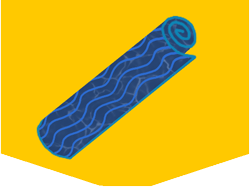
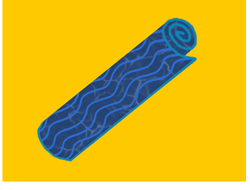
More updates, including redoing Water Carpet completely

Changed region(s): [[0.14, 0.0789, 0.812, 0.8684], [0.0, 0.0, 1.0, 1.0]]

diff --git a/src/main/java/com/ascript/KappaMod/actions/BubbleFromHandAction.java b/src/main/java/com/ascript/KappaMod/actions/BubbleFromHandAction.java
@@ -11,13 +11,14 @@ import com.megacrit.cardcrawl.core.Settings;
 import com.megacrit.cardcrawl.dungeons.AbstractDungeon;
 import com.megacrit.cardcrawl.localization.UIStrings;
 import java.util.Iterator;
+import java.util.function.Function;
 
 public class BubbleFromHandAction extends AbstractGameAction {
-    private static final UIStrings uiStrings = CardCrawlGame.languagePack.getUIString("BubbleFromHandAction");
+    private static final UIStrings uiStrings = CardCrawlGame.languagePack.getUIString("BubbleSelectionAction");
     public static final String[] TEXT = uiStrings.TEXT;
     private AbstractPlayer p;
     private boolean isRandom;
-    public static int numDiscarded;
+    private Function<AbstractCard, AbstractGameAction> followUpAction;
     private static final float DURATION = Settings.ACTION_DUR_XFAST;
 
     public BubbleFromHandAction(AbstractCreature target, AbstractCreature source, int amount, boolean isRandom) {
@@ -26,6 +27,15 @@ public class BubbleFromHandAction extends AbstractGameAction {
         this.setValues(target, source, amount);
         this.actionType = ActionType.DISCARD;
         this.duration = DURATION;
+    }
+
+    public BubbleFromHandAction(AbstractPlayer player, int amount, boolean random, Function<AbstractCard, AbstractGameAction> followUp) {
+        p = player;
+        isRandom = random;
+        followUpAction = followUp;
+        setValues(player, player, amount);
+        actionType = ActionType.DISCARD;
+        duration = DURATION;
     }
 
     public void update() {
@@ -41,12 +51,11 @@ public class BubbleFromHandAction extends AbstractGameAction {
 
                 for(int i = 0; i < handSize; ++i) {
                     AbstractCard c = p.hand.getTopCard();
-                    p.hand.removeCard(c);
-                    addToTop(new BubbleAction(c));
+                    processCard(c);
                 }
 
                 AbstractDungeon.player.hand.applyPowers();
-                this.tickDuration();
+                isDone = true;
                 return;
             }
 
@@ -54,36 +63,39 @@ public class BubbleFromHandAction extends AbstractGameAction {
                 if (this.amount < 0) {
                     AbstractDungeon.handCardSelectScreen.open(TEXT[0], 99, true, true);
                     AbstractDungeon.player.hand.applyPowers();
-                    this.tickDuration();
+                    tickDuration();
                     return;
                 }
 
-                numDiscarded = this.amount;
                 if (this.p.hand.size() > this.amount) {
                     AbstractDungeon.handCardSelectScreen.open(TEXT[0], this.amount, false);
                 }
 
                 AbstractDungeon.player.hand.applyPowers();
-                this.tickDuration();
-                return;
+                tickDuration();
+            } else {
+                for (int i = 0; i < this.amount; ++i) {
+                    AbstractCard c = this.p.hand.getRandomCard(AbstractDungeon.cardRandomRng);
+                    processCard(c);
+                }
+                isDone = true;
             }
-
-            for(int i = 0; i < this.amount; ++i) {
-                AbstractCard c = this.p.hand.getRandomCard(AbstractDungeon.cardRandomRng);
-                this.p.hand.removeCard(c);
-                addToTop(new BubbleAction(c));
-            }
+            return;
         }
 
         if (!AbstractDungeon.handCardSelectScreen.wereCardsRetrieved) {
-            for (AbstractCard c : AbstractDungeon.handCardSelectScreen.selectedCards.group) {
-                p.hand.removeCard(c);
-                addToTop(new BubbleAction(c));
-            }
-
+            AbstractDungeon.handCardSelectScreen.selectedCards.group.stream().forEach(this::processCard);
             AbstractDungeon.handCardSelectScreen.wereCardsRetrieved = true;
         }
 
-        this.tickDuration();
+        tickDuration();
+    }
+
+    private void processCard(AbstractCard c) {
+        p.hand.removeCard(c);
+        if (followUpAction != null) {
+            addToTop(followUpAction.apply(c));
+        }
+        addToTop(new BubbleAction(c));
     }
 }

diff --git a/src/main/java/com/ascript/KappaMod/cards/KappaFlashFlood.java b/src/main/java/com/ascript/KappaMod/cards/KappaFlashFlood.java
@@ -6,38 +6,43 @@ import com.ascript.KappaMod.powers.DrownPower;
 import com.ascript.KappaMod.powers.SubmergePower;
 import com.megacrit.cardcrawl.actions.common.ApplyPowerAction;
 import com.megacrit.cardcrawl.characters.AbstractPlayer;
+import com.megacrit.cardcrawl.dungeons.AbstractDungeon;
 import com.megacrit.cardcrawl.monsters.AbstractMonster;
 
-public class KappaPororoca extends AbstractDynamicCard {
+public class KappaFlashFlood extends AbstractDynamicCard {
 
-    public static final String ID = KappaMod.makeID(KappaPororoca.class.getSimpleName());
+    public static final String ID = KappaMod.makeID(KappaFlashFlood.class.getSimpleName());
     public static final String IMG = KappaMod.makeCardPath("Skill.png");
 
-    private static final CardRarity RARITY = CardRarity.COMMON;
-    private static final CardTarget TARGET = CardTarget.ENEMY;
+    private static final CardRarity RARITY = CardRarity.UNCOMMON;
+    private static final CardTarget TARGET = CardTarget.ALL_ENEMY;
     private static final CardType TYPE = CardType.SKILL;
     public static final CardColor COLOR = TheKappa.Enums.COLOR_AQUA;
 
     private static final int COST = 1;
 
-    private static final int MAGIC = 6;
-    private static final int UPGRADE_PLUS_MAGIC = 2;
+    private static final int MAGIC = 4;
+    private static final int UPGRADE_PLUS_MAGIC = 3;
 
-    public KappaPororoca() {
+    public KappaFlashFlood() {
         super(ID, IMG, COST, TYPE, COLOR, RARITY, TARGET);
         baseMagicNumber = magicNumber = MAGIC;
+        exhaust = true;
     }
     
     @Override
-    public void use(AbstractPlayer p, AbstractMonster m) {
-        addToBot(new ApplyPowerAction(m, p, new DrownPower(m, p, magicNumber), magicNumber));
+    public void use(AbstractPlayer p, AbstractMonster mo) {
+        for (AbstractMonster m : AbstractDungeon.getMonsters().monsters) {
+            addToBot(new ApplyPowerAction(m, p, new DrownPower(m, p, magicNumber), magicNumber, true));
+            addToBot(new ApplyPowerAction(m, p, new SubmergePower(m, p, 2), 2, true));
+        }
     }
     
     @Override
     public void upgrade() {
         if (!upgraded) {
             upgradeName();
-            upgradeMagicNumber(UPGRADE_PLUS_MAGIC);
+            upgradeDamage(UPGRADE_PLUS_MAGIC);
             initializeDescription();
         }
     }

diff --git a/src/main/java/com/ascript/KappaMod/cards/WaterCarpet.java b/src/main/java/com/ascript/KappaMod/cards/WaterCarpet.java
@@ -3,11 +3,11 @@ package com.ascript.KappaMod.cards;
 import basemod.abstracts.CustomCard;
 import com.ascript.KappaMod.KappaMod;
 import com.ascript.KappaMod.actions.ActionPerBubbledCardAction;
+import com.ascript.KappaMod.actions.BubbleFromHandAction;
 import com.ascript.KappaMod.actions.BubbleTopCardAction;
+import com.ascript.KappaMod.actions.WaterCarpetAction;
 import com.ascript.KappaMod.characters.TheKappa;
-import com.megacrit.cardcrawl.actions.common.DiscardAction;
 import com.megacrit.cardcrawl.actions.common.GainBlockAction;
-import com.megacrit.cardcrawl.actions.unique.SkillFromDeckToHandAction;
 import com.megacrit.cardcrawl.characters.AbstractPlayer;
 import com.megacrit.cardcrawl.core.CardCrawlGame;
 import com.megacrit.cardcrawl.localization.CardStrings;
@@ -37,16 +37,13 @@ public class WaterCarpet extends CustomCard {
     }
 
     public void use(AbstractPlayer p, AbstractMonster m) {
-        for (int i=0; i < magicNumber; i++) {
-            addToBot(new BubbleTopCardAction());
-        }
-        addToBot(new ActionPerBubbledCardAction(() -> new GainBlockAction(p, block)));
+        addToBot(new BubbleFromHandAction(p, magicNumber, false, c -> new WaterCarpetAction(p, this, c)));
     }
 
     public void upgrade() {
         if (!this.upgraded) {
             upgradeName();
-            upgradeMagicNumber(2);
+            upgradeMagicNumber(1);
             initializeDescription();
         }
     }

diff --git a/src/main/java/com/ascript/KappaMod/relics/WaterBoard.java b/src/main/java/com/ascript/KappaMod/relics/WaterBoard.java
@@ -2,6 +2,7 @@ package com.ascript.KappaMod.relics;
 
 import basemod.abstracts.CustomRelic;
 import com.ascript.KappaMod.KappaMod;
+import com.ascript.KappaMod.powers.DrownPower;
 import com.ascript.KappaMod.powers.SubmergePower;
 import com.ascript.KappaMod.util.TextureLoader;
 import com.badlogic.gdx.graphics.Texture;
@@ -20,7 +21,7 @@ public class WaterBoard extends CustomRelic {
     private static final Texture IMG = TextureLoader.getTexture(makeRelicPath("WaterBoard.png"));
     private static final Texture OUTLINE = TextureLoader.getTexture(makeRelicOutlinePath("WaterBoard_Outline.png"));
 
-    private static final int AMT = 5;
+    private static final int AMT = 4;
 
     public WaterBoard() {
         super(ID, IMG, OUTLINE, RelicTier.SHOP, LandingSound.FLAT);
@@ -32,7 +33,7 @@ public class WaterBoard extends CustomRelic {
         AbstractPlayer p = AbstractDungeon.player;
         for (AbstractMonster m : AbstractDungeon.getMonsters().monsters) {
             addToBot(new RelicAboveCreatureAction(m, this));
-            addToBot(new ApplyPowerAction(m, p, new SubmergePower(m, p, AMT), AMT, true));
+            addToBot(new ApplyPowerAction(m, p, new DrownPower(m, p, AMT), AMT, true));
         }
     }
 

diff --git a/src/main/java/com/ascript/KappaMod/actions/BubbleAction.java b/src/main/java/com/ascript/KappaMod/actions/BubbleAction.java
@@ -2,6 +2,7 @@ package com.ascript.KappaMod.actions;
 
 import com.ascript.KappaMod.bubbles.CardBubble;
 import com.ascript.KappaMod.cards.interfaces.BubbleListeningCardInterface;
+import com.ascript.KappaMod.powers.interfaces.BubbleListeningPowerInterface;
 import com.ascript.KappaMod.util.BubbleUtils;
 import com.megacrit.cardcrawl.actions.AbstractGameAction;
 import com.megacrit.cardcrawl.cards.AbstractCard;
@@ -24,9 +25,9 @@ public class BubbleAction extends AbstractGameAction {
                 ((BubbleListeningCardInterface) card).onBubble();
             }
             AbstractDungeon.player.powers.stream()
-                    .filter(BubbleListeningCardInterface.class::isInstance)
-                    .map(BubbleListeningCardInterface.class::cast)
-                    .forEach(BubbleListeningCardInterface::onBubble);
+                    .filter(BubbleListeningPowerInterface.class::isInstance)
+                    .map(BubbleListeningPowerInterface.class::cast)
+                    .forEach(p -> p.onBubble(card));
         } else {
             addToTop(new BubbleAction(card));
             addToTop(new PopAction(AbstractDungeon.player));

diff --git a/src/main/java/com/ascript/KappaMod/actions/WaterCarpetAction.java b/src/main/java/com/ascript/KappaMod/actions/WaterCarpetAction.java
@@ -1,0 +1,32 @@
+package com.ascript.KappaMod.actions;
+
+import com.ascript.KappaMod.cards.WaterCarpet;
+import com.megacrit.cardcrawl.actions.AbstractGameAction;
+import com.megacrit.cardcrawl.actions.common.GainBlockAction;
+import com.megacrit.cardcrawl.cards.AbstractCard;
+import com.megacrit.cardcrawl.characters.AbstractPlayer;
+import com.megacrit.cardcrawl.core.Settings;
+import com.megacrit.cardcrawl.ui.panels.EnergyPanel;
+
+public class WaterCarpetAction extends AbstractGameAction {
+    AbstractCard card;
+    public WaterCarpetAction(AbstractPlayer p, WaterCarpet source, AbstractCard c) {
+        setValues(p, p, c.costForTurn);
+        card = source;
+        duration = Settings.ACTION_DUR_XFAST;
+    }
+
+    @Override
+    public void update() {
+        if (amount == -1) {
+            amount = EnergyPanel.getCurrentEnergy();
+        }
+
+        if (amount > 0) {
+            addToTop(new GainBlockAction(target, card.block * amount));
+        }
+
+        isDone = true;
+        return;
+    }
+}

diff --git a/src/main/java/com/ascript/KappaMod/cards/WaterSwing.java b/src/main/java/com/ascript/KappaMod/cards/WaterSwing.java
@@ -53,28 +53,6 @@ public class WaterSwing extends AbstractDynamicCard {
     public void triggerOnGlowCheck() {
         glowColor = FloodPower.receding(AbstractDungeon.player) ? AbstractCard.GOLD_BORDER_GLOW_COLOR.cpy() : AbstractCard.BLUE_BORDER_GLOW_COLOR.cpy();
     }
-
-    @Override
-    public void applyPowers() {
-        int realBase = baseDamage;
-        if (FloodPower.surging(AbstractDungeon.player)) {
-            baseDamage += magicNumber;
-        }
-        super.applyPowers();
-        baseDamage = realBase;
-        isDamageModified = baseDamage != damage;
-    }
-
-    @Override
-    public void calculateCardDamage(AbstractMonster mo) {
-        int realBase = baseDamage;
-        if (FloodPower.surging(AbstractDungeon.player)) {
-            baseDamage += magicNumber;
-        }
-        super.calculateCardDamage(mo);
-        baseDamage = realBase;
-        isDamageModified = baseDamage != damage;
-    }
     
     @Override
     public void upgrade() {

diff --git a/src/main/java/com/ascript/KappaMod/actions/KappaKapAction.java b/src/main/java/com/ascript/KappaMod/actions/KappaKapAction.java
@@ -1,5 +1,6 @@
 package com.ascript.KappaMod.actions;
 
+import com.ascript.KappaMod.enums.KappaAttackEffect;
 import com.ascript.KappaMod.powers.FloodPower;
 import com.megacrit.cardcrawl.actions.AbstractGameAction;
 import com.megacrit.cardcrawl.actions.common.DamageRandomEnemyAction;
@@ -15,7 +16,7 @@ public class KappaKapAction extends AbstractGameAction {
             amt = AbstractDungeon.player.getPower(FloodPower.POWER_ID).amount;
         }
         if (amt > 0) {
-            addToTop(new DamageRandomEnemyAction(new DamageInfo(AbstractDungeon.player, 3, DamageInfo.DamageType.THORNS), AttackEffect.POISON));
+            addToTop(new DamageRandomEnemyAction(new DamageInfo(AbstractDungeon.player, 3, DamageInfo.DamageType.THORNS), KappaAttackEffect.SPLASH));
         } else {
             addToTop(new GainBlockAction(AbstractDungeon.player, 3));
         }

diff --git a/src/main/java/com/ascript/KappaMod/actions/BubbleFromDiscardAction.java b/src/main/java/com/ascript/KappaMod/actions/BubbleFromDiscardAction.java
@@ -12,8 +12,8 @@ import com.megacrit.cardcrawl.localization.UIStrings;
 import java.util.Iterator;
 
 public class BubbleFromDiscardAction extends AbstractGameAction {
-    private static final UIStrings uiStrings = CardCrawlGame.languagePack.getUIString("BubbleFromDiscardAction");
-    public static final String[] TEXT = uiStrings.TEXT;;
+    private static final UIStrings uiStrings = CardCrawlGame.languagePack.getUIString("BubbleSelectionAction");
+    public static final String[] TEXT = uiStrings.TEXT;
     private AbstractPlayer p;
 
     public BubbleFromDiscardAction(int amt) {

diff --git a/src/main/java/com/ascript/KappaMod/cards/LooseCannon.java b/src/main/java/com/ascript/KappaMod/cards/LooseCannon.java
@@ -30,7 +30,7 @@ public class LooseCannon extends AbstractDynamicCard {
     
     @Override
     public void use(AbstractPlayer p, AbstractMonster m) {
-        addToBot(new DamageRandomEnemyAction(new DamageInfo(p, damage, damageTypeForTurn), AbstractGameAction.AttackEffect.SLASH_HORIZONTAL));
+        addToBot(new DamageRandomEnemyAction(new DamageInfo(p, damage, damageTypeForTurn), AbstractGameAction.AttackEffect.FIRE));
     }
     
     @Override
